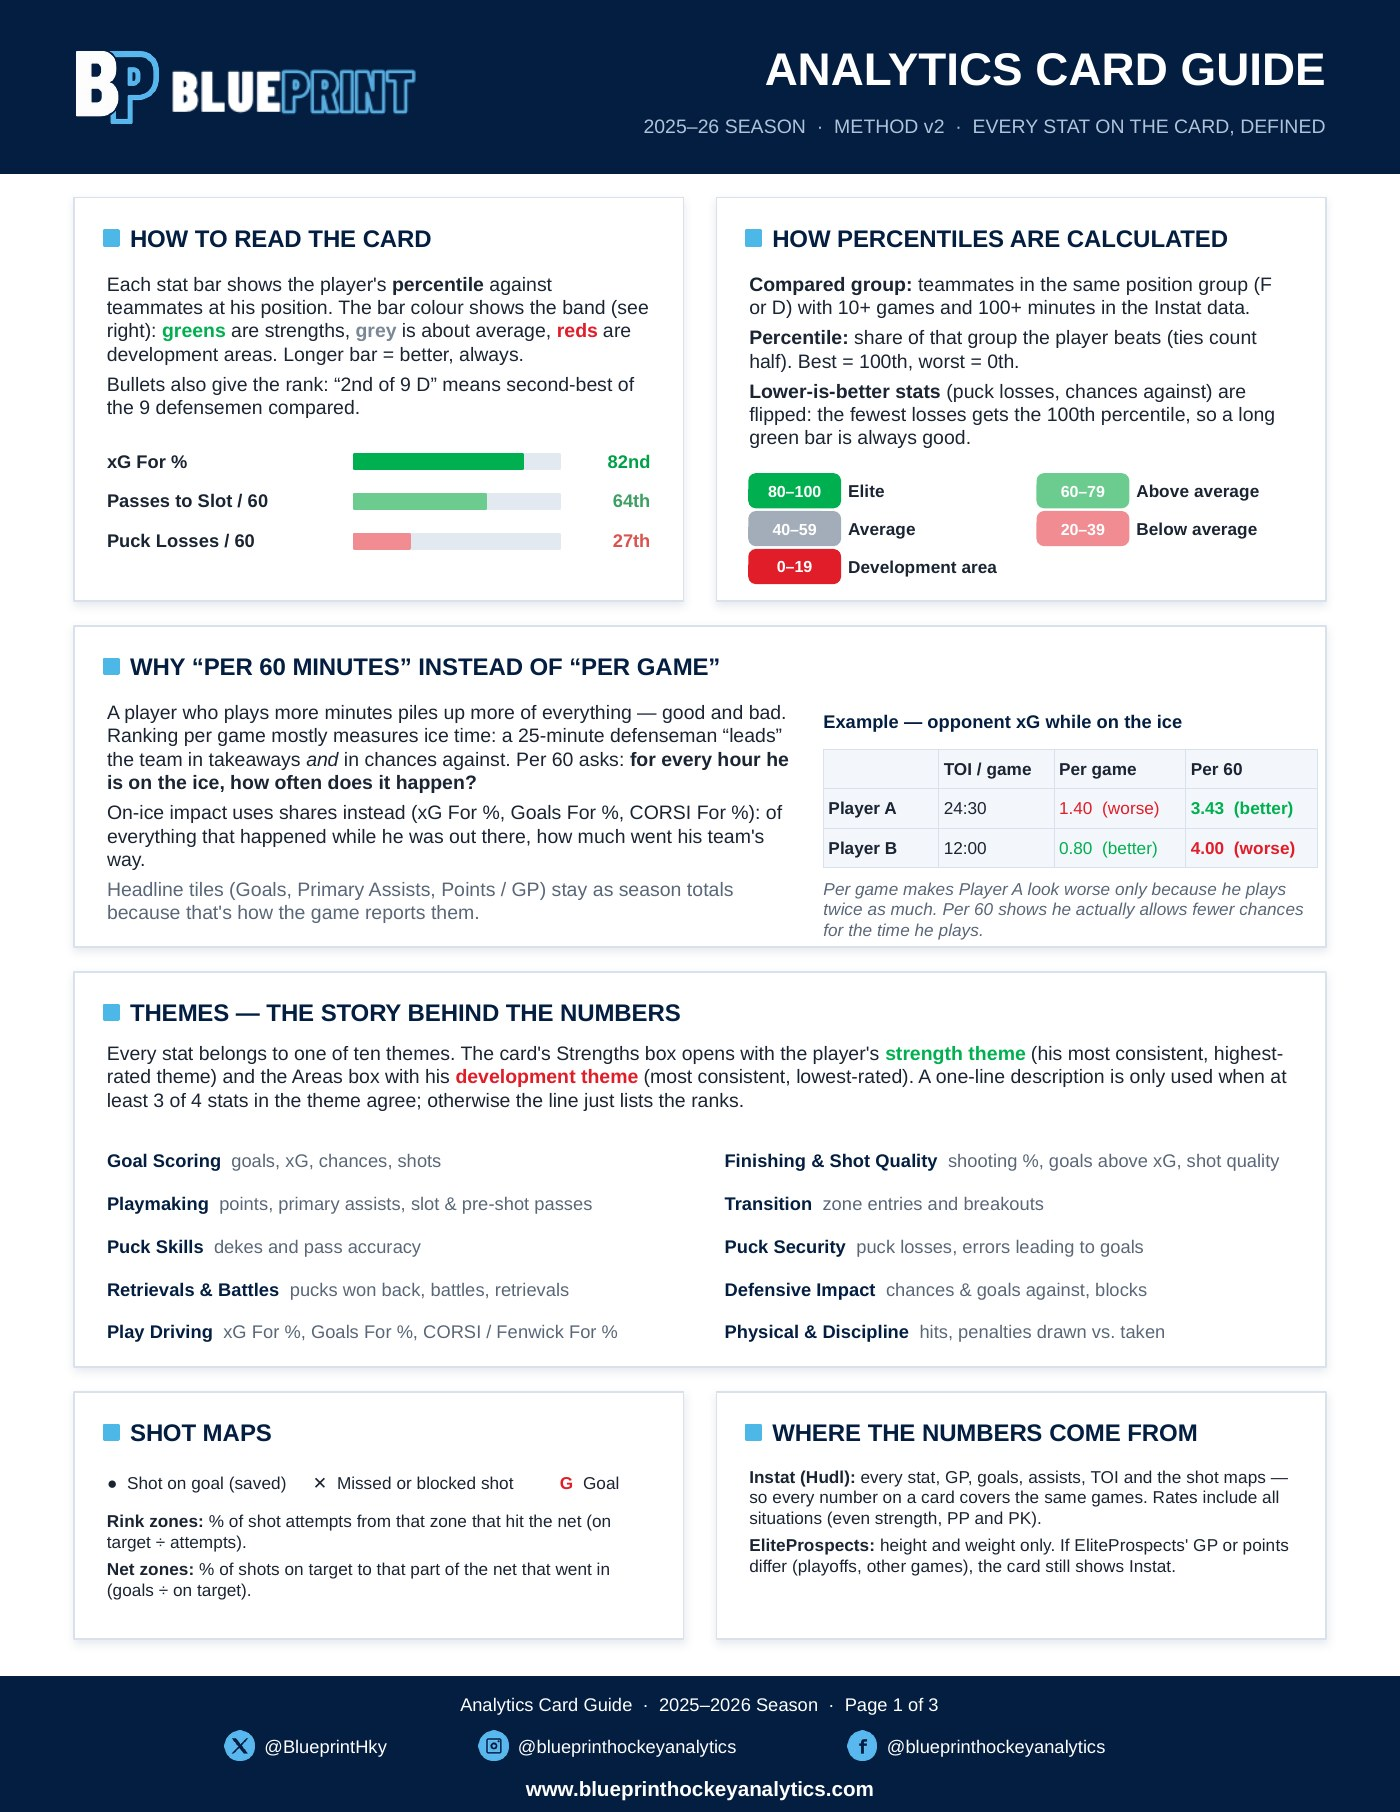
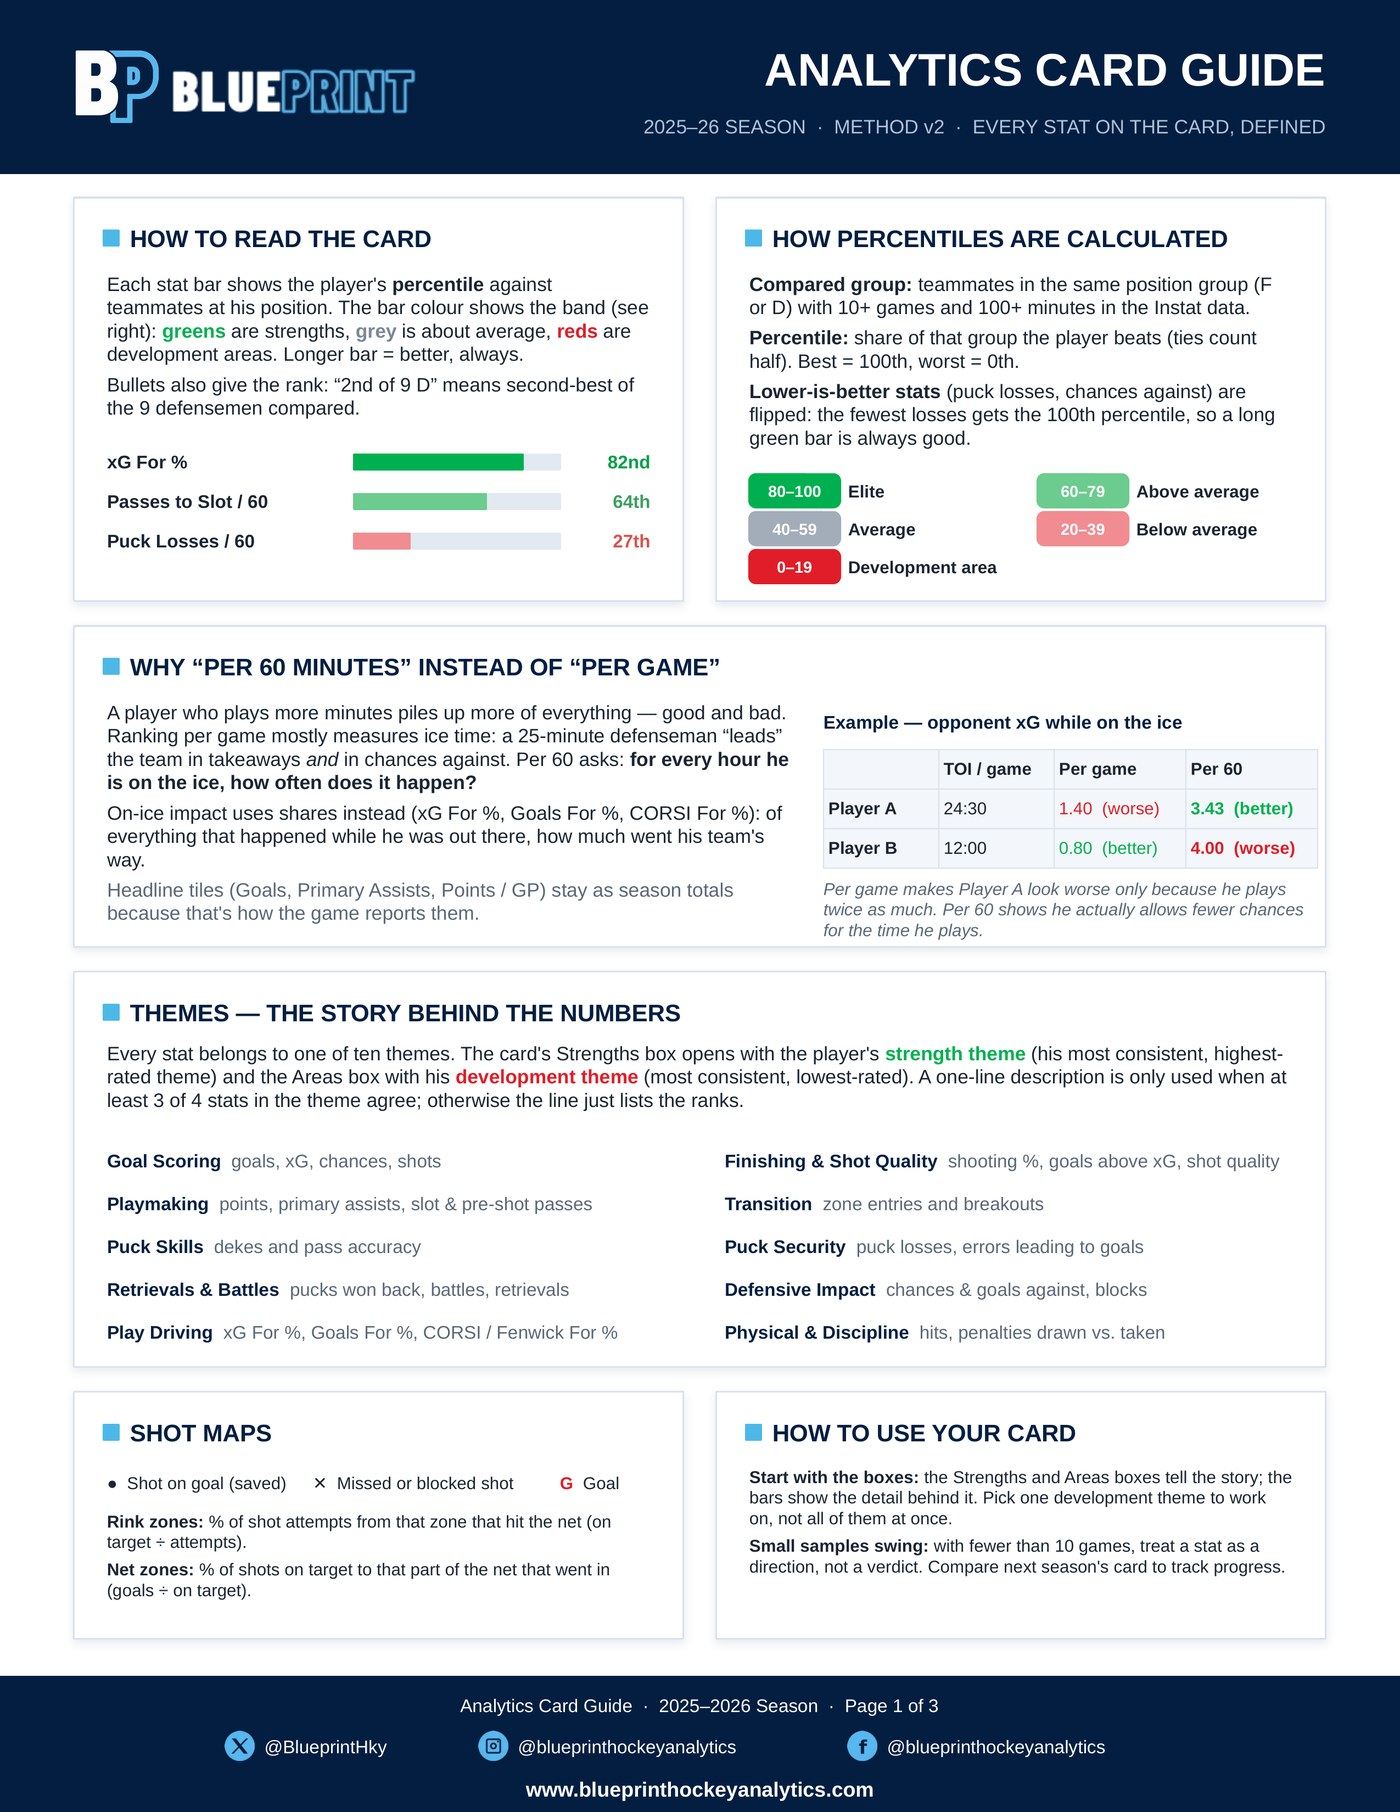
Card guide: replace data-source box with how-to-use tips

diff --git a/player-reports.html b/player-reports.html
@@ -277,7 +277,7 @@ body { background: #fff; margin: 0; }
   <p class="pr-p">Every report comes with a full glossary so nothing on the page is a mystery — what each stat means, how percentiles are calculated, and how to read the color coding at a glance.</p>
   <div class="pr-guide-row">
     <div class="pr-guide-pages">
-      <img src="assets/card-guide-p1-web.jpg" data-full="assets/card-guide-p1-full.jpg" alt="Analytics card guide, page 1: how to read the card">
+      <img src="assets/card-guide-p1-web.jpg?v=2" data-full="assets/card-guide-p1-full.jpg?v=2" alt="Analytics card guide, page 1: how to read the card">
       <img src="assets/card-guide-p2-web.jpg" data-full="assets/card-guide-p2-full.jpg" alt="Analytics card guide, page 2: stat glossary">
       <img src="assets/card-guide-p3-web.jpg" data-full="assets/card-guide-p3-full.jpg" alt="Analytics card guide, page 3: stat glossary">
     </div>
